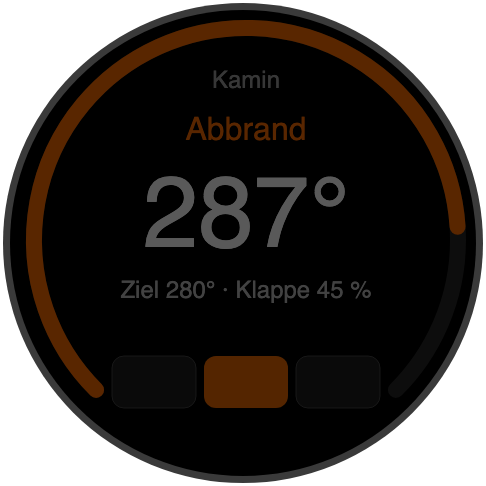
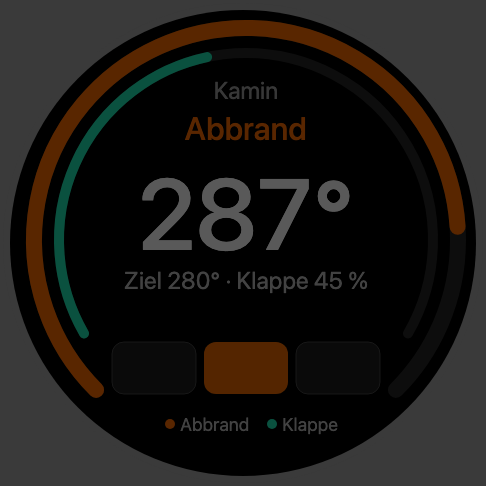
Version 0.3.5: Kaltstart mit offener Klappe bis 220 °C, Türöffnen ändert den Startfall nicht; Drehknopf mit Klappenring und Legende

diff --git a/drehknopf/docs/wireframes.html b/drehknopf/docs/wireframes.html
@@ -20,34 +20,38 @@ h1{font-size:20px;font-weight:500;margin:0 0 16px}
 </style>
 </head>
 <body>
-<h1>Kamin-Drehknopf – Wireframes (466 × 466 px, Stand 2026-11-10)</h1>
+<h1>Kamin-Drehknopf – Wireframes (466 × 466 px, Stand 2026-11-11)</h1>
 <div class="grid">
 <div class="cell">
 <svg viewBox="0 0 486 486" role="img"><title>Kamin aktiv</title>
 <circle cx="243" cy="243" r="240" fill="#3a3a3a"/><circle cx="243" cy="243" r="233" fill="#000"/>
 <g transform="translate(10 10)">
 <path class="arc" data-f="1" stroke="#262626"/><path class="arc" data-f="0.82" stroke="#FF6D00"/>
-<text x="233" y="73" fill="#9E9E9E" font-size="24" text-anchor="middle" dominant-baseline="central">Kamin</text>
+<path class="arc" data-r="187" data-w="10" data-a="150" data-s="240" data-f="1" stroke="#262626"/><path class="arc" data-r="187" data-w="10" data-a="150" data-s="240" data-f="0.45" stroke="#1DE9B6"/>
+<text x="233" y="83" fill="#9E9E9E" font-size="24" text-anchor="middle" dominant-baseline="central">Kamin</text>
 <text x="233" y="121" fill="#FF6D00" font-size="32" font-weight="500" text-anchor="middle" dominant-baseline="central">Abbrand</text>
 <text x="233" y="205" fill="#fff" font-size="100" font-weight="500" text-anchor="middle" dominant-baseline="central">287°</text>
-<text x="233" y="283" fill="#BDBDBD" font-size="24" text-anchor="middle" dominant-baseline="central">Ziel 280° · Klappe 45 %</text>
-<rect x="99" y="349" width="84" height="52" rx="12" fill="#1E1E1E" stroke="#444"/><text x="141" y="375" fill="#ddd" font-size="22" text-anchor="middle" dominant-baseline="central">Eco</text>
-<rect x="191" y="349" width="84" height="52" rx="12" fill="#EF6C00"/><text x="233" y="375" fill="#fff" font-size="22" text-anchor="middle" dominant-baseline="central">Normal</text>
-<rect x="283" y="349" width="84" height="52" rx="12" fill="#1E1E1E" stroke="#444"/><text x="325" y="375" fill="#ddd" font-size="22" text-anchor="middle" dominant-baseline="central">Power</text>
+<text x="233" y="273" fill="#BDBDBD" font-size="24" text-anchor="middle" dominant-baseline="central">Ziel 280° · Klappe 45 %</text>
+<rect x="99" y="335" width="84" height="52" rx="12" fill="#1E1E1E" stroke="#444"/><text x="141" y="361" fill="#ddd" font-size="22" text-anchor="middle" dominant-baseline="central">Eco</text>
+<rect x="191" y="335" width="84" height="52" rx="12" fill="#EF6C00"/><text x="233" y="361" fill="#fff" font-size="22" text-anchor="middle" dominant-baseline="central">Normal</text>
+<rect x="283" y="335" width="84" height="52" rx="12" fill="#1E1E1E" stroke="#444"/><text x="325" y="361" fill="#ddd" font-size="22" text-anchor="middle" dominant-baseline="central">Power</text>
+<circle cx="157" cy="417" r="5" fill="#FF6D00"/><text x="167" y="417" fill="#BDBDBD" font-size="18" dominant-baseline="central">Abbrand</text><circle cx="259" cy="417" r="5" fill="#1DE9B6"/><text x="269" y="417" fill="#BDBDBD" font-size="18" dominant-baseline="central">Klappe</text>
 </g></svg>
 <p class="cap">1 · Kamin, aktiv</p>
-<p class="sub">Bogen = Abgastemperatur 0–350 °C, Farbe folgt der Phase. Leistungsmodus per Touch.</p>
+<p class="sub">Außen: Abgastemperatur 0–350 °C, Farbe folgt der Phase. Innen (türkis): Klappenstellung 0–100 %. Legende unten: Phasenfarbe + Phase, Türkis + Klappe. Leistungsmodus per Touch.</p>
 </div>
 <div class="cell">
 <svg viewBox="0 0 486 486" role="img"><title>Kamin gedimmt</title>
 <circle cx="243" cy="243" r="240" fill="#3a3a3a"/><circle cx="243" cy="243" r="233" fill="#000"/>
 <g transform="translate(13 7)" opacity="0.35">
 <path class="arc" data-f="1" stroke="#262626"/><path class="arc" data-f="0.82" stroke="#FF6D00"/>
-<text x="233" y="73" fill="#9E9E9E" font-size="24" text-anchor="middle" dominant-baseline="central">Kamin</text>
+<path class="arc" data-r="187" data-w="10" data-a="150" data-s="240" data-f="1" stroke="#262626"/><path class="arc" data-r="187" data-w="10" data-a="150" data-s="240" data-f="0.45" stroke="#1DE9B6"/>
+<text x="233" y="83" fill="#9E9E9E" font-size="24" text-anchor="middle" dominant-baseline="central">Kamin</text>
 <text x="233" y="121" fill="#FF6D00" font-size="32" font-weight="500" text-anchor="middle" dominant-baseline="central">Abbrand</text>
 <text x="233" y="205" fill="#fff" font-size="100" font-weight="500" text-anchor="middle" dominant-baseline="central">287°</text>
-<text x="233" y="283" fill="#BDBDBD" font-size="24" text-anchor="middle" dominant-baseline="central">Ziel 280° · Klappe 45 %</text>
-<rect x="99" y="349" width="84" height="52" rx="12" fill="#1E1E1E" stroke="#444"/><rect x="191" y="349" width="84" height="52" rx="12" fill="#EF6C00"/><rect x="283" y="349" width="84" height="52" rx="12" fill="#1E1E1E" stroke="#444"/>
+<text x="233" y="273" fill="#BDBDBD" font-size="24" text-anchor="middle" dominant-baseline="central">Ziel 280° · Klappe 45 %</text>
+<rect x="99" y="335" width="84" height="52" rx="12" fill="#1E1E1E" stroke="#444"/><rect x="191" y="335" width="84" height="52" rx="12" fill="#EF6C00"/><rect x="283" y="335" width="84" height="52" rx="12" fill="#1E1E1E" stroke="#444"/>
+<circle cx="157" cy="417" r="5" fill="#FF6D00"/><text x="167" y="417" fill="#BDBDBD" font-size="18" dominant-baseline="central">Abbrand</text><circle cx="259" cy="417" r="5" fill="#1DE9B6"/><text x="269" y="417" fill="#BDBDBD" font-size="18" dominant-baseline="central">Klappe</text>
 </g></svg>
 <p class="cap">2 · Kamin, gedimmt (Feuer an)</p>
 <p class="sub">Nach Timeout ohne Bedienung: 25 % Helligkeit, alle 2 min 3 px Versatz. Erste Berührung weckt nur.</p>
@@ -84,7 +88,7 @@ h1{font-size:20px;font-weight:500;margin:0 0 16px}
 <div><b>Touch</b>Modus bzw. Zurück, Play, Weiter</div>
 </div>
 <script>
-document.querySelectorAll('.arc').forEach(p=>{const f=+p.dataset.f,c=233,r=212,a0=135,a1=135+270*f,rad=d=>d*Math.PI/180,pt=d=>[c+r*Math.cos(rad(d)),c+r*Math.sin(rad(d))];const[s0,s1]=pt(a0),[e0,e1]=pt(a1);p.setAttribute('d',`M${s0} ${s1}A${r} ${r} 0 ${a1-a0>180?1:0} 1 ${e0} ${e1}`);p.setAttribute('fill','none');p.setAttribute('stroke-width','16');p.setAttribute('stroke-linecap','round')});
+document.querySelectorAll('.arc').forEach(p=>{const f=+p.dataset.f,c=233,r=+(p.dataset.r||212),a0=+(p.dataset.a||135),a1=a0+(+(p.dataset.s||270))*f,rad=d=>d*Math.PI/180,pt=d=>[c+r*Math.cos(rad(d)),c+r*Math.sin(rad(d))];const[s0,s1]=pt(a0),[e0,e1]=pt(a1);p.setAttribute('d',`M${s0} ${s1}A${r} ${r} 0 ${a1-a0>180?1:0} 1 ${e0} ${e1}`);p.setAttribute('fill','none');p.setAttribute('stroke-width',p.dataset.w||'16');p.setAttribute('stroke-linecap','round')});
 </script>
 </body>
 </html>

diff --git a/tests/kern/test_kern_steuerung.py b/tests/kern/test_kern_steuerung.py
@@ -33,7 +33,7 @@ def test_ergebnis_ist_momentaufnahme_und_zustand_bleibt_dasselbe_objekt():
 
 
 def test_phase_setzen_stempelt_int_sekunden_und_begrenzt_auf_1200():
-    st, _ = lauf(STANDBY, 100, t=1638.0)
+    st, _ = lauf(STANDBY, 100, dict(t_phasenstart=1500.0), t=1638.0)
     z = st.zustand
     assert z.phase == ANHEIZEN and z.phase_seit == JETZT_INT
     assert z.t_maximum == 1200 and z.t_phasenstart == 1200
@@ -46,8 +46,10 @@ def test_phase_setzen_ohne_messwert_schreibt_null():
     assert erg.klappe == 100    # kein stop: Die Klappe öffnet noch im selben Lauf
 
 
-@pytest.mark.parametrize("t,t_vorher,erwartet", [(150.0, 200.0, 200.0), (250.0, 200.0, 250.0)])
-def test_tuer_zu_merkt_den_hoeheren_wert(t, t_vorher, erwartet):
+@pytest.mark.parametrize("t,t_vorher,erwartet", [(150.0, 200.0, 200.0), (250.0, 200.0, 200.0),
+                                                  (209.0, 24.7, 24.7)])
+def test_tuer_zu_uebernimmt_t_vor_dem_oeffnen(t, t_vorher, erwartet):
+    # 11.11.: Kaltstart, Tür 17 min offen, beim Schließen 209 °C – bleibt Kaltstart
     st, _ = lauf(TUER_OFFEN, 30, dict(t_phasenstart=t_vorher), t=t)
     assert st.zustand.t_phasenstart == erwartet
 
@@ -58,14 +60,14 @@ def test_tuer_auf_merkt_den_hoeheren_wert_nicht():
 
 
 def test_i_start_liest_t_vorher_nicht_das_neue_t_phasenstart():
-    st, _ = lauf(ANHEIZEN, 900, dict(t_phasenstart=65.0, i_anteil=99.0, t_maximum=160.0), t=170.0)
+    st, _ = lauf(ANHEIZEN, 2400, dict(t_phasenstart=65.0, i_anteil=99.0, t_maximum=160.0), t=170.0)
     assert st.zustand.phase == ABBRAND and st.zustand.t_phasenstart == 170.0
     assert st.zustand.i_anteil < 99.0
 
 
 def test_uebergang_nach_abbrand_integriert_und_stellt_klappe_im_selben_lauf():
     # I-Start 55.0, sp = 0.5 < Entgasung; Integration: e = 50 → +1.8; P: 25
-    st, erg = lauf(ANHEIZEN, 900, dict(t_phasenstart=65.0, t_maximum=160.0, klappe_soll=100),
+    st, erg = lauf(ANHEIZEN, 2400, dict(t_phasenstart=65.0, t_maximum=160.0, klappe_soll=100),
                    t=170.0)
     assert st.zustand.i_anteil == 56.8
     assert erg.klappe == 90     # 81.8, aber Schließrate 100 - 10
@@ -73,7 +75,7 @@ def test_uebergang_nach_abbrand_integriert_und_stellt_klappe_im_selben_lauf():
 
 
 def test_uebergang_nach_abbrand_ohne_tick_integriert_nicht():
-    st, _ = lauf(ANHEIZEN, 900, dict(t_phasenstart=65.0, t_maximum=160.0), t=170.0,
+    st, _ = lauf(ANHEIZEN, 2400, dict(t_phasenstart=65.0, t_maximum=160.0), t=170.0,
                  ausloeser="bedienung")
     assert st.zustand.i_anteil == 55.0
 
@@ -129,7 +131,7 @@ def test_wasserbegrenzung_nutzt_alte_variable_tmax():
     st, _ = lauf(ABBRAND, 1000, dict(t_maximum=200.5), t=200.0, twt_roh=90.0)
     assert st.zustand.t_maximum == 200.5
     # Im Übergangslauf ist tmax alt, das Schreiben ändert nichts mehr: frisch ist schon t
-    st, _ = lauf(ANHEIZEN, 900, dict(t_maximum=500.0, t_phasenstart=20.0), t=170.0, twt_roh=90.0)
+    st, _ = lauf(ANHEIZEN, 2400, dict(t_maximum=500.0, t_phasenstart=20.0), t=170.0, twt_roh=90.0)
     assert st.zustand.phase == ABBRAND and st.zustand.t_maximum == 170.0
 
 
@@ -186,3 +188,21 @@ def test_jetzt_mit_nachkommastelle_gibt_sp_aber_ganzes_s():
     # s = 59, sp = 59.5 → noch Spülen; bei 60.0 nicht mehr
     assert st.schritt(eingaben(t=90.0, jetzt=JETZT)).klappe == 100
     assert st.schritt(eingaben(t=90.0, jetzt=JETZT + 0.5)).klappe == 10
+
+
+def test_tuer_auf_im_anheizen_behaelt_den_startfall():
+    st, _ = lauf(ANHEIZEN, 300, dict(t_phasenstart=25.0, t_maximum=180.0), t=180.0, tuer_offen=True)
+    assert st.zustand.phase == TUER_OFFEN and st.zustand.t_phasenstart == 25.0
+
+
+def test_standby_nach_anheizen_nimmt_den_kleineren_wert():
+    st, _ = lauf(STANDBY, 100, dict(t_phasenstart=40.0), t=135.0)
+    assert st.zustand.phase == ANHEIZEN and st.zustand.t_phasenstart == 40.0
+
+
+@pytest.mark.parametrize("t,ziel", [(219.0, ANHEIZEN), (220.0, ABBRAND)])
+def test_kaltstart_haelt_anheizen_bis_t_kaltstart_ende(t, ziel):
+    st, erg = lauf(ANHEIZEN, 900, dict(t_phasenstart=25.0, t_maximum=t), t=t)
+    assert st.zustand.phase == ziel
+    if ziel == ANHEIZEN:
+        assert erg.klappe == 100

diff --git a/kamin_abbrand/app/kern/phasen.py b/kamin_abbrand/app/kern/phasen.py
@@ -60,8 +60,13 @@ def phase_setzen(lauf: Lauf, phase: str) -> None:
     # Live schreibt ohne Messwert 0 und verliert damit die Herkunftstemperatur.
     if not (lauf.neu and not lauf.w.t_ok):
         z.t_maximum = t_jetzt
-        z.t_phasenstart = (max(t_jetzt, t_vorher)
-                           if alt == TUER_OFFEN and phase == ANHEIZEN else t_jetzt)
+        # Türöffnen ist kein Nachlegen: Startfall = T vor dem ersten Öffnen.
+        if (alt, phase) in ((TUER_OFFEN, ANHEIZEN), (ANHEIZEN, TUER_OFFEN)):
+            z.t_phasenstart = t_vorher
+        elif alt == STANDBY and phase == ANHEIZEN:
+            z.t_phasenstart = min(t_jetzt, t_vorher)
+        else:
+            z.t_phasenstart = t_jetzt
     if phase == ABBRAND and alt != ABBRAND:
         z.i_anteil = i_start(t_vorher, lauf.p)
     lauf.uebergang = (alt, phase)
@@ -256,7 +261,10 @@ REGELN_PARITAET: tuple[Regel, ...] = (
     Regel("Anheizen → Abbrand",
           lambda l: (_in(l, ANHEIZEN) and l.w.t >= l.w.tstart
                      and (l.w.s >= l.w.anh_min_eff
-                          or (l.w.t >= l.w.ziel and l.w.s >= l.w.ziel_min_s))),
+                          or (l.w.t >= l.w.ziel and l.w.s >= l.w.ziel_min_s))
+                     # Kaltstart hält Anheizen bis T Kaltstart-Ende, Notbremse Timeout
+                     and (l.w.tref >= l.w.abk or l.w.t >= l.w.t_kalt_ende
+                          or l.w.s >= l.w.anh_to)),
           _nach(ABBRAND)),
     Regel("Anheizen ohne echtes Feuer (Tür nur geöffnet / Glut nur aufgeflammt / nur gereinigt)"
           " → still zurück, kalter Ofen direkt Standby",

diff --git a/kamin_abbrand/app/anbindung/einstellungen.py b/kamin_abbrand/app/anbindung/einstellungen.py
@@ -142,6 +142,8 @@ PARAMETER_THEMEN: tuple[tuple[str, tuple[Feld, ...]], ...] = (
         _f("anheizen_mindestdauer_nachlegen", "Mindestdauer beim Nachlegen", "Für das Nachlegen auf Glut.", 0, 30, 1, "min"),
         _f("anheizen_mindestdauer_feuer", "Mindestdauer auf heißem Feuer", "Für das Nachlegen, solange der Ofen noch heiß ist.", 0, 30, 1, "min"),
         _f("anheizen_timeout", "Höchstdauer Anheizen", "Danach meldet die App einen Anheizfehler.", 5, 120, 5, "min"),
+        _f("klappe_kaltstart", "Klappe beim Kaltstart", "Klappenstellung beim ersten Anheizen (kalter Ofen, keine Glut).", 30, 100, 5, "%"),
+        _f("t_kaltstart_ende", "Kaltstart offen bis", "Beim Kaltstart bleibt die Klappe bis zu dieser Abgastemperatur auf dem Kaltstart-Wert, erst dann beginnt der Abbrand.", 150, 300, 5, "°C"),
         _f("klappe_anheizen_feuer", "Klappe beim Nachlegen", "Klappenstellung, wenn auf einen heißen Ofen nachgelegt wird.", 20, 100, 5, "%"),
         _f("t_kalt", "Ofen gilt als kalt unter", "Darunter darf die Klappe ganz schließen.", 20, 100, 5, "°C"),
     )),

diff --git a/tests/kern/test_kern_klappe.py b/tests/kern/test_kern_klappe.py
@@ -193,3 +193,9 @@ def test_schreiben_nur_bei_anderem_int_wert():
     assert st.zustand.klappe_soll == 10.7 and erg.klappe == 10
     st, erg = lauf(GLUT, 0, dict(klappe_soll=11.2), t=100.0)
     assert st.zustand.klappe_soll == 10 and erg.klappe == 10
+
+
+@pytest.mark.parametrize("tref,t,klappe", [(25.0, 209.0, 85), (79.9, 100.0, 85), (80.0, 150.0, 100)])
+def test_kaltstart_nutzt_klappe_kaltstart(tref, t, klappe):
+    p = Parameter(klappe_kaltstart=85)
+    assert klappe_nach(ANHEIZEN, 10, dict(t_phasenstart=tref, t_maximum=t), p, t=t) == klappe

diff --git a/kamin_abbrand/app/kern/signale.py b/kamin_abbrand/app/kern/signale.py
@@ -146,6 +146,8 @@ class Werte:
     twt_anstieg: float
     feuer_anstieg: float
     kfeuer: float
+    kkalt: float
+    t_kalt_ende: float
 
 
 def werte_ermitteln(e: Eingaben, p: Parameter, z: Zustand) -> Werte:
@@ -199,4 +201,6 @@ def werte_ermitteln(e: Eingaben, p: Parameter, z: Zustand) -> Werte:
         twt_anstieg=e.twt_anstieg,
         feuer_anstieg=p.feuer_twt_anstieg,
         kfeuer=p.klappe_anheizen_feuer,
+        kkalt=p.klappe_kaltstart,
+        t_kalt_ende=p.t_kaltstart_ende,
     )

diff --git a/kamin_abbrand/app/kern/klappe.py b/kamin_abbrand/app/kern/klappe.py
@@ -13,6 +13,8 @@ from kern.typen import (ABBRAND, ABKUEHLEN, ANHEIZEN, ANHEIZFEHLER, AUSBRAND, GL
 
 def _anheizen(z: Zustand, w: Werte) -> float:
     tr = z.t_phasenstart
+    if tr < w.abk:                      # Kaltstart: keine Glut vor dem Anheizen
+        return w.kkalt
     if tr < w.glut or w.t < w.glut:
         return 100
     if tr >= w.tstart:

diff --git a/kamin_abbrand/app/kern/typen.py b/kamin_abbrand/app/kern/typen.py
@@ -78,6 +78,8 @@ class Parameter:
     klappe_uebertemperatur: float = 25
     klappe_wasser: float = 40
     klappe_anheizen_feuer: float = 60
+    klappe_kaltstart: float = 100
+    t_kaltstart_ende: float = 220       # °C
     regler_verstaerkung: float = 0.5
     regler_nachstellzeit: float = 7     # min
     regler_vorhaltung: float = 0

diff --git a/kamin_abbrand/app/anbindung/web.py b/kamin_abbrand/app/anbindung/web.py
@@ -39,7 +39,7 @@ STATIK = Path(__file__).parent.parent / "web"
 KATALOG_GUELTIG_S = 10.0
 MAX_STUNDEN = 12.0
 MAX_KWH = 1_000_000.0
-VERSION = "0.3.4"
+VERSION = "0.3.5"
 
 Handler = Callable[[web.Request], Awaitable[web.StreamResponse]]
 

diff --git a/drehknopf/README.md b/drehknopf/README.md
@@ -8,7 +8,7 @@ Der Kamin ist der Ausgangspunkt, aber nicht die Grenze. Die Anzeige besteht aus 
 
 | Kamin | Kamin gedimmt | Musik | Aus |
 | --- | --- | --- | --- |
-| ![Kamin-Seite: Phase Abbrand, 287 °C, Ziel und Klappe, Leistungsknöpfe](../docs/screenshots/drehknopf-kamin.png) | ![Gedimmte Kamin-Seite bei laufendem Feuer](../docs/screenshots/drehknopf-kamin-gedimmt.png) | ![Musik-Seite: Titel, Künstler, Lautstärke, Zurück/Pause/Weiter](../docs/screenshots/drehknopf-musik.png) | ![Display aus](../docs/screenshots/drehknopf-aus.png) |
+| ![Kamin-Seite: äußerer Ring Abgastemperatur in Phasenfarbe, innerer Ring Klappe, Phase Abbrand, 287 °C, Leistungsknöpfe, Legende](../docs/screenshots/drehknopf-kamin.png) | ![Gedimmte Kamin-Seite bei laufendem Feuer](../docs/screenshots/drehknopf-kamin-gedimmt.png) | ![Musik-Seite: Titel, Künstler, Lautstärke, Zurück/Pause/Weiter](../docs/screenshots/drehknopf-musik.png) | ![Display aus](../docs/screenshots/drehknopf-aus.png) |
 
 Die Bilder sind Wireframes mit Beispielwerten, keine Fotos vom Gerät.
 

diff --git a/kamin_abbrand/CHANGELOG.md b/kamin_abbrand/CHANGELOG.md
@@ -1,5 +1,10 @@
 # Changelog
 
+## 0.3.5
+
+- Behoben: Ein Kaltstart wurde als heißes Nachlegen gewertet, wenn das Feuer bei offener Tür schon hochgebrannt war, und die Klappe ging auf „Klappe beim Nachlegen“. Für den Startfall zählt jetzt die Temperatur von vor dem ersten Öffnen. Öffnet man die Tür im Anheizen erneut, bleibt der Startfall erhalten.
+- Neu: Beim Kaltstart (keine Glut vor dem Anheizen) steht die Klappe auf „Klappe beim Kaltstart“ (100 %). Der Abbrand beginnt erst ab „Kaltstart offen bis“ (220 °C) oder nach der Höchstdauer Anheizen. Beide Werte sind unter Einstellungen → Anheizen einstellbar.
+
 ## 0.3.4
 
 - Behoben: Lag die Seite länger im Hintergrund, zeigte sie „Fehler 401“, bis man von Hand neu lud. Die abgelaufene Anmeldung bei Home Assistant wird jetzt erkannt und die Seite einmal neu geladen. Im Hintergrund fragt die Seite nicht mehr ab.
